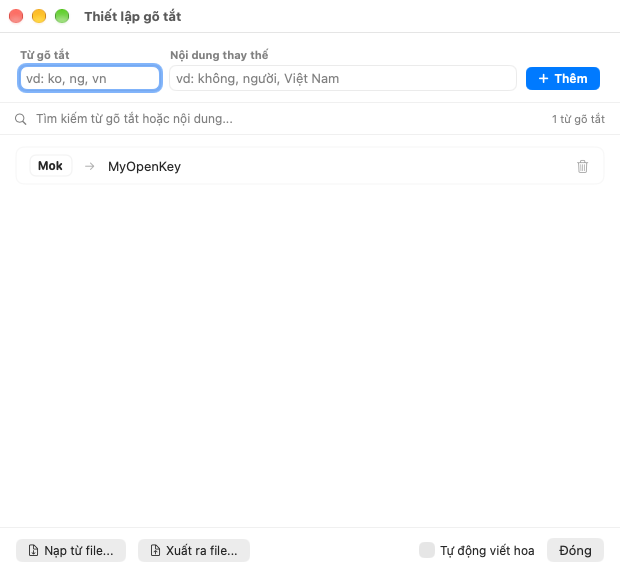
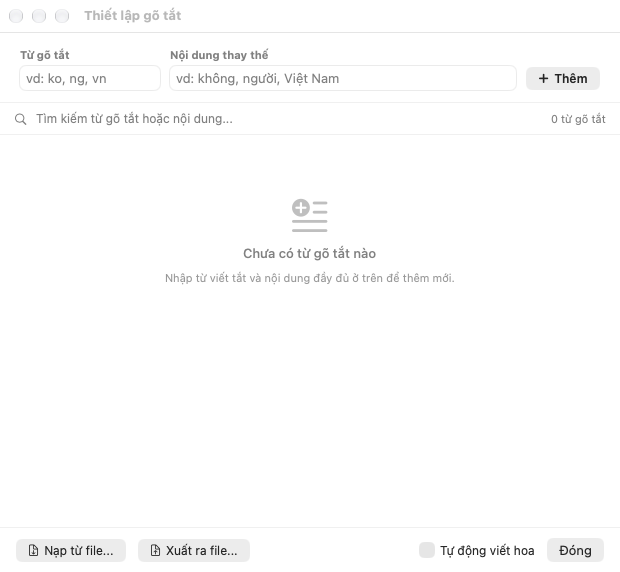
Update app UI screenshots and add Convert Tool & Sparkle 2 highlights in README

diff --git a/README.md b/README.md
@@ -45,6 +45,12 @@
 ### 🔄 5. Khởi động cùng hệ thống (`SMAppService`)
 - Hỗ trợ đăng ký khởi động cùng hệ thống thông qua kiến trúc native `SMAppService` trên macOS 13 (Ventura) trở lên, xuất hiện minh bạch trong *System Settings ➔ General ➔ Login Items*. (Lưu ý: trên macOS 12 Monterey, tính năng khởi động cùng máy chưa khả dụng do hệ thống yêu cầu `SMAppService` native).
 
+### 🔀 6. Công cụ chuyển mã & Gõ tắt hiện đại
+- **Công cụ chuyển mã (Convert Tool)**: Xây dựng hoàn toàn bằng SwiftUI với Inset-Grouped cards, hỗ trợ đảo chiều bảng mã 1-click, tùy chọn đổi hoa/thường, bỏ dấu tiếng Việt, gán phím tắt chuyển mã clipboard tức thì.
+- **Thiết lập gõ tắt (Macro Manager)**: Tìm kiếm thời gian thực, thêm/sửa từ gõ tắt nhanh, nạp và xuất file định nghĩa linh hoạt.
+
+### 🚀 7. Tự động cập nhật 1-click (Sparkle 2)
+- Tích hợp framework Sparkle 2 (Ed25519) an toàn, tự động kiểm tra bản mới khi khởi động và hỗ trợ cập nhật 1-click trực tiếp ngay trong ứng dụng với giao diện tiếng Việt bản địa hóa hoàn chỉnh.
 ---
 
 ## 📸 Giao diện ứng dụng
